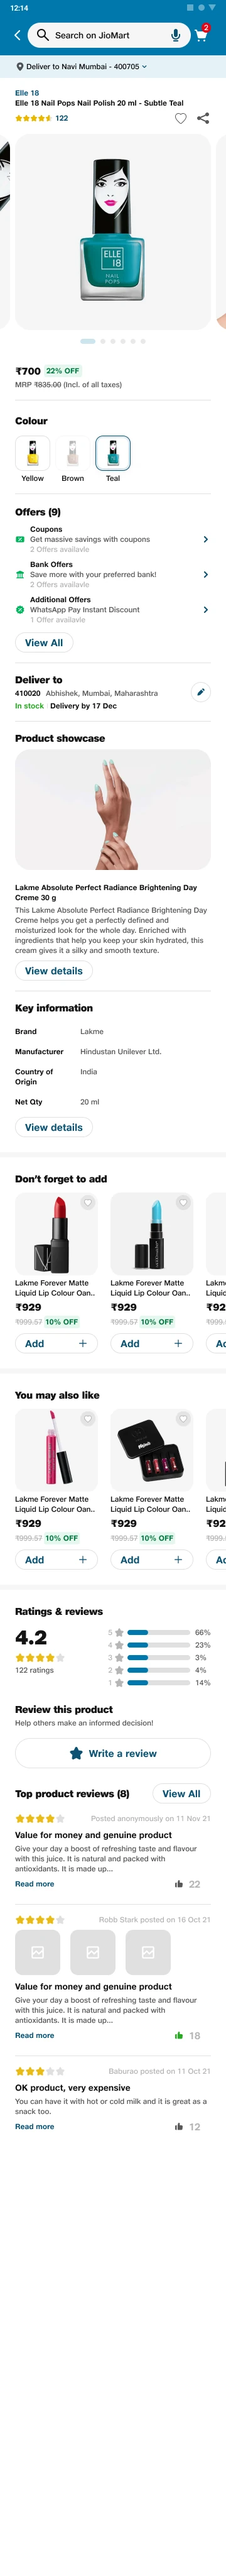
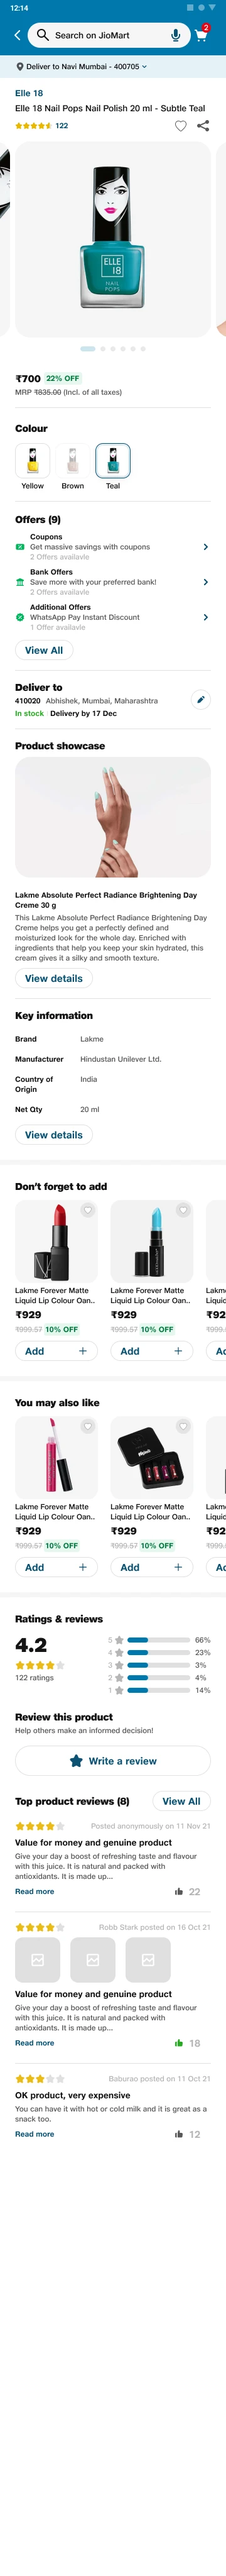
Deck + case study: replace PDP screens with the Figma update (bigger type, fixed spacing)
Claude-Session: https://claude.ai/code/session_01Hk7si3owCVDs4cH4zgK8o7

diff --git a/js/jiomart-deck-slides.js b/js/jiomart-deck-slides.js
@@ -579,7 +579,7 @@ window.DECK = {
         { v: "old", label: "Before", img: "enhance-problem-pdp-nobar.png", cta: "enhance-before-pdp-bar.png", n: "Long page, key details buried" },
         { v: "new", label: "Grocery", img: "new/pdp-grocery.webp", h: 4098, cta: "enhance-v1-pdp-cta.png?v=2", n: "Brand, rating, price and every pack size up front" },
         { v: "elec", label: "Electronics", img: "new/pdp-electronics.webp", h: 4098, n: "EMI and full specs open in a sheet, so the page stays short",
-          hot: [ { x: 252, y: 656, w: 84, h: 30, open: "new/pdp-emi.webp", label: "EMI" }, { x: 24, y: 1941, w: 126, h: 34, open: "new/pdp-details.webp", label: "Details" } ] },
+          hot: [ { x: 252, y: 664, w: 84, h: 30, open: "new/pdp-emi.webp", label: "EMI" }, { x: 24, y: 1949, w: 126, h: 34, open: "new/pdp-details.webp", label: "Details" } ] },
         { v: "fash", label: "Fashion", img: "new/pdp-fashion.webp", h: 4098, n: "Brand first, then the name; colour and size before the fold" },
         { v: "beauty", label: "Beauty", img: "new/pdp-beauty.webp", h: 4098, n: "Shades as swatches, offers grouped, reviews with photos" }
       ],
@@ -767,8 +767,8 @@ window.DECK = {
           why: "Brand, rating, price and every pack size before the fold.", proof: "PDP rated S3 critical in the {{audit|audit}}; brand hidden on 4 of 4 verticals." },
         { k: "Electronics product", img: "new/pdp-electronics.webp", h: 4098,
           hot: [
-            { x: 252, y: 656, w: 84, h: 30, open: "new/pdp-emi.webp", label: "EMI plans" },
-            { x: 24, y: 1941, w: 126, h: 34, open: "new/pdp-details.webp", label: "Details" }
+            { x: 252, y: 664, w: 84, h: 30, open: "new/pdp-emi.webp", label: "EMI plans" },
+            { x: 24, y: 1949, w: 126, h: 34, open: "new/pdp-details.webp", label: "Details" }
           ],
           why: "EMI and full specs open in a sheet, so the page stays short.", proof: "EMI didn't look tappable on 3 of 4 audited verticals." }
       ],

diff --git a/jiomart-deck.html b/jiomart-deck.html
@@ -58,7 +58,7 @@
       </aside>
     </div>
 
-    <script src="js/jiomart-deck-slides.js?v=190"></script>
+    <script src="js/jiomart-deck-slides.js?v=191"></script>
     <script src="js/jiomart-deck.js?v=164"></script>
     <script src="./js/gate.js?v=3"></script>
   </body>
